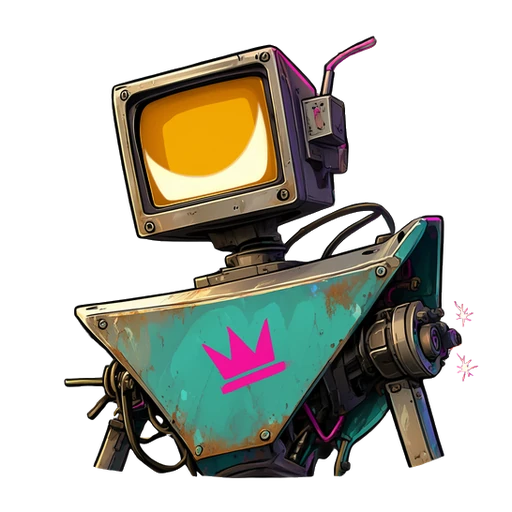
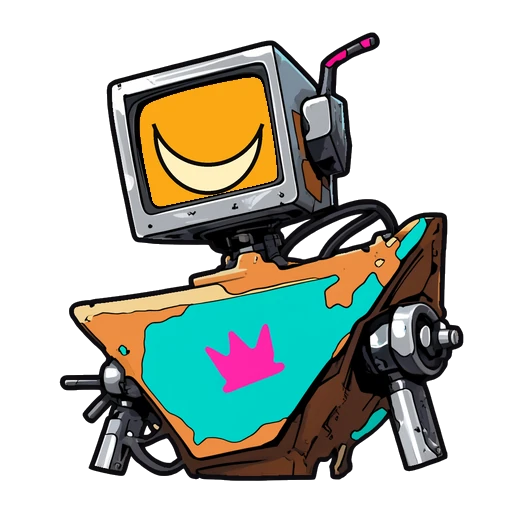
Journey cast and portraits in the new look (FAL-829) (#166)
* Journey cast and their portraits in the FAL-792 look (FAL-829)

Gear Mira, Dax, Noma and B0-LT idle + talk sheets and their 16 dialogue
portraits, redrawn in the approved ink-and-flat-colour look. Frame ids and
anims unchanged; x, y, w, h, ox, oy re-measured. Frames sit on the 16 px
WebP block grid so idle and talk decode identically outside the arm.

* Journey README: Dax's hat was already on his sheet; only the portraits change (FAL-829)

---------

diff --git a/assets/journey/README.md b/assets/journey/README.md
@@ -117,10 +117,10 @@ move. Their dialogue portraits are in `assets/portraits/` (see its README).
 
 | File | Frames (w×h shipped px) | Anims (fps) | Anchors | Bytes |
 |---|---|---|---|---|
-| `cast/b0-lt.webp` + `b0-lt.json` | idle 44×220, talk 44×220 | idle [idle] (1), talk [idle, talk] (4, loop) | feet point | 12,004 |
-| `cast/dax.webp` + `dax.json` | idle 72×220, talk 72×220 | idle [idle] (1), talk [idle, talk] (4, loop) | feet point | 12,258 |
-| `cast/gear-mira.webp` + `gear-mira.json` | idle 62×220, talk 62×220 | idle [idle] (1), talk [idle, talk] (4, loop) | feet point | 13,492 |
-| `cast/noma.webp` + `noma.json` | idle 74×220, talk 74×220 | idle [idle] (1), talk [idle, talk] (4, loop) | feet point | 14,582 |
+| `cast/b0-lt.webp` + `b0-lt.json` | idle 46×223, talk 46×223 | idle [idle] (1), talk [idle, talk] (4, loop) | feet point | 9,476 |
+| `cast/dax.webp` + `dax.json` | idle 76×223, talk 76×223 | idle [idle] (1), talk [idle, talk] (4, loop) | feet point | 10,882 |
+| `cast/gear-mira.webp` + `gear-mira.json` | idle 65×222, talk 65×222 | idle [idle] (1), talk [idle, talk] (4, loop) | feet point | 11,228 |
+| `cast/noma.webp` + `noma.json` | idle 77×221, talk 77×221 | idle [idle] (1), talk [idle, talk] (4, loop) | feet point | 12,250 |
 | `encounters/cell/backdrop.webp` | opaque 864×256 | static | strip origin (0, 0) | 25,926 |
 | `encounters/cell/bars.webp` + `.json` | shut 864×256, loose 864×256, open 864×256 | shut/loose/open, one frame each (1, once) | feet point | 360,974 |
 | `encounters/cell/guard.webp` + `.json` | idle 110×252, talk 110×252 | idle [idle] (1), talk [idle, talk] (4, loop) | feet point | 13,000 |
@@ -213,3 +213,11 @@ batch lands, that sheet is still in the painted style.
   arms are the same pixels). The mast-climber's mast is drawn on the CPU behind the rendered climber, at the old
   mast's width and positions: a slim pole and back rail in one steel grey with one shadow tone, and the boxes,
   panels and cable runs as closed, filled, inked shapes.
+- Batch 3, FAL-829: the journey cast (`cast/gear-mira`, `dax`, `noma`, `b0-lt`, idle and talk) and their 16
+  dialogue portraits in `assets/portraits/`. Gear Mira's idle is the accepted FAL-792 test frame. The other idles are
+  the old idles redrawn in the new look. Each talk is the new idle with only the raised arm redrawn (B0-LT's talk
+  changes only the screen, to a dark screen with an amber waveform). Frame ids, anims and the feet-point convention
+  are unchanged; only `x`, `y`, `w`, `h`, `ox`, `oy` were re-measured (heights 220 → 221-223 px). The frames sit on the 16 px WebP block grid (`x` = 0, 64-96), so idle and talk decode to the same pixels outside the arm. The look is
+  louder than the painted cast: Noma's tunic is bright teal with a magenta sash, and B0-LT is chrome grey with a
+  teal chest plate. Dax's portraits now match his sheet (brown hat with teal goggles, dark hair and beard) instead
+  of the old portraits' cap and grey hair.

diff --git a/assets/portraits/README.md b/assets/portraits/README.md
@@ -4,21 +4,23 @@
 
 Local Qwen Image 2.1 reference edits. Humans lock to the canonical roster. B0-LT uses the selected asymmetric factory-frame design with an amber monitor and crown tag. Screen tearing is a still; code supplies any flicker.
 
+**New look (FAL-829, batch 3 of FAL-792):** all 16 portraits are redrawn in the FAL-792 ink-and-flat-colour look, in the same costume and colours as each character's new journey sheet (`assets/journey/cast/`). Framing, size, facing and the neutral-keeps-the-alpha rule are unchanged. The human moods are the neutral with only the face redrawn. B0-LT's moods change only the screen: a cream smile (pleased), an amber waveform (talk) and torn bars (glitch).
+
 | File | Bytes | Facing |
 |---|---:|---|
-| `gear-mira-neutral.webp` | 98,704 | left |
-| `gear-mira-talk.webp` | 98,674 | left |
-| `gear-mira-pleased.webp` | 98,526 | left |
-| `gear-mira-worried.webp` | 98,866 | left |
-| `dax-neutral.webp` | 61,932 | left |
-| `dax-talk.webp` | 62,022 | left |
-| `dax-pleased.webp` | 61,708 | left |
-| `dax-worried.webp` | 61,930 | left |
-| `noma-neutral.webp` | 79,310 | left |
-| `noma-talk.webp` | 79,656 | left |
-| `noma-pleased.webp` | 79,462 | left |
-| `noma-worried.webp` | 79,324 | left |
-| `b0-lt-neutral.webp` | 60,756 | left |
-| `b0-lt-talk.webp` | 59,958 | left |
-| `b0-lt-pleased.webp` | 60,656 | left |
-| `b0-lt-glitch.webp` | 62,766 | left |
+| `gear-mira-neutral.webp` | 65,470 | left |
+| `gear-mira-talk.webp` | 66,158 | left |
+| `gear-mira-pleased.webp` | 65,584 | left |
+| `gear-mira-worried.webp` | 65,998 | left |
+| `dax-neutral.webp` | 47,736 | left |
+| `dax-talk.webp` | 47,360 | left |
+| `dax-pleased.webp` | 47,240 | left |
+| `dax-worried.webp` | 47,228 | left |
+| `noma-neutral.webp` | 52,178 | left |
+| `noma-talk.webp` | 52,662 | left |
+| `noma-pleased.webp` | 52,142 | left |
+| `noma-worried.webp` | 51,916 | left |
+| `b0-lt-neutral.webp` | 39,436 | left |
+| `b0-lt-talk.webp` | 40,874 | left |
+| `b0-lt-pleased.webp` | 41,168 | left |
+| `b0-lt-glitch.webp` | 41,234 | left |
